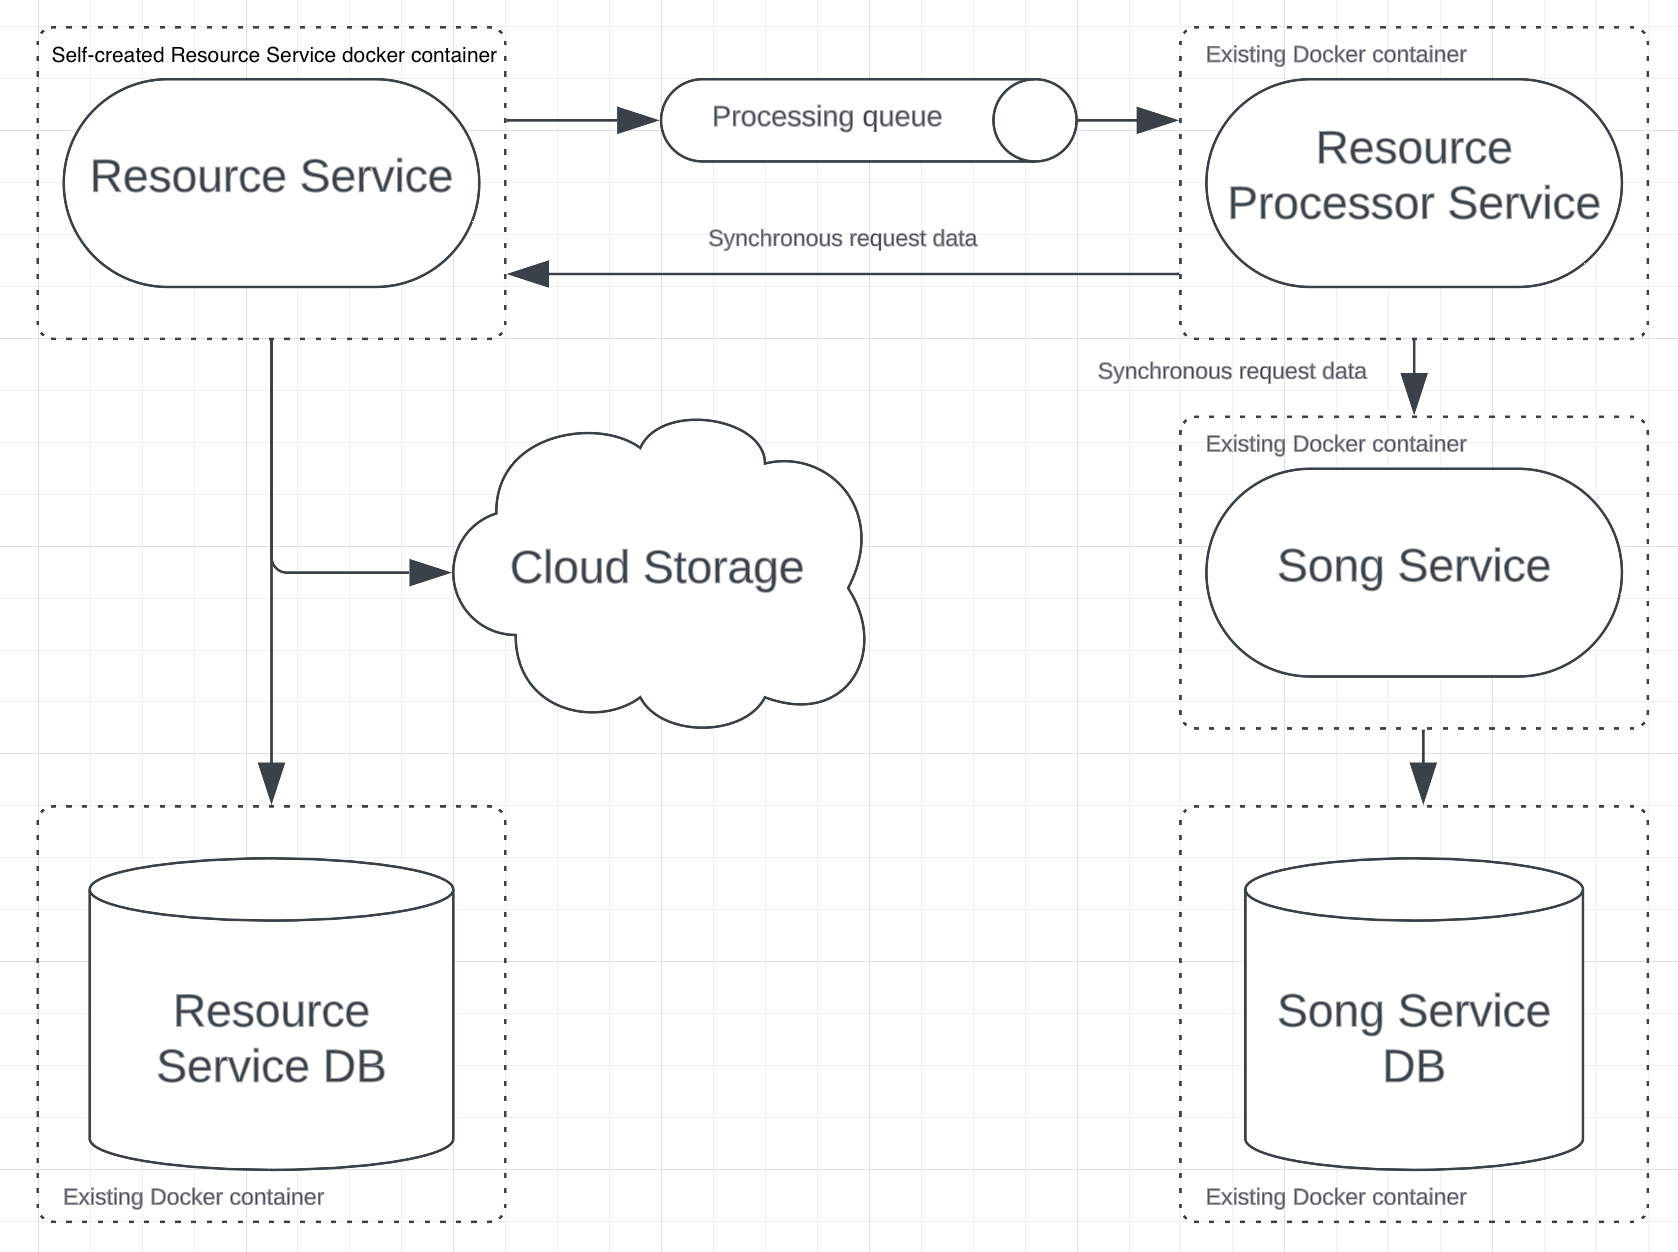
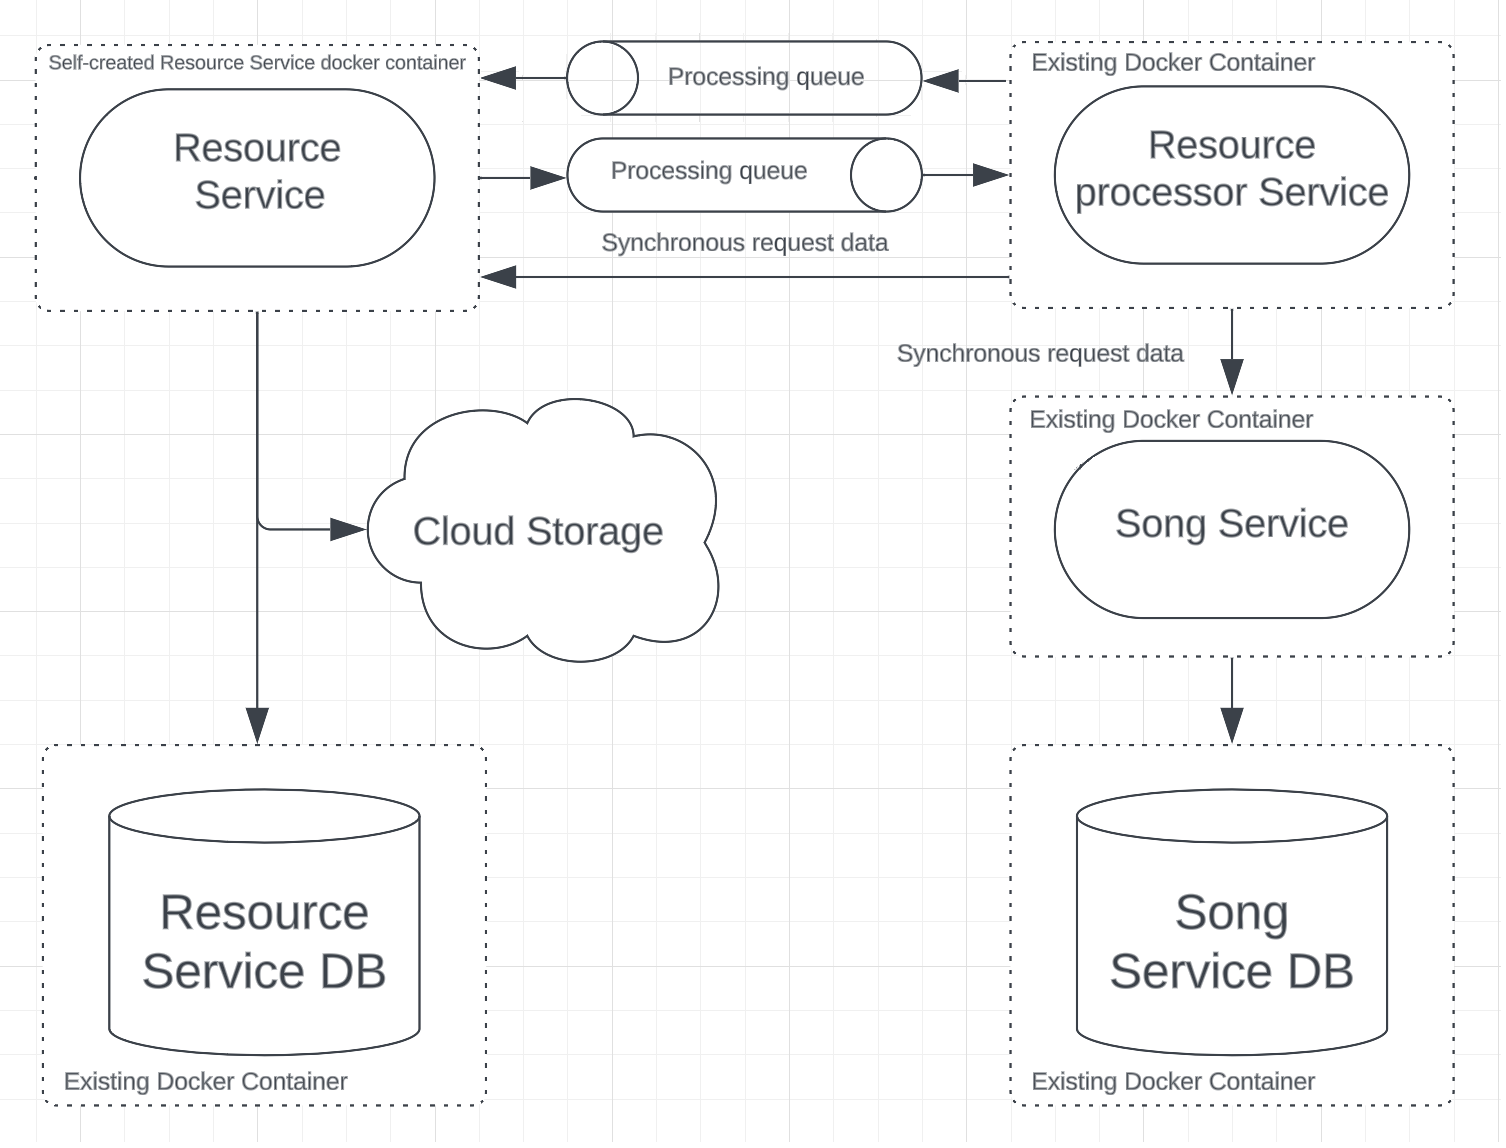
refactoring

diff --git a/microservices-cloud-native/tasks/microservices_communication/README.md b/microservices-cloud-native/tasks/microservices_communication/README.md
@@ -60,7 +60,8 @@ services:
     restart: always
     environment:
       - RABBITMQ_URL=rabbitmq
-      - RABBITMQ_QUEUE={RABBITMQ_QUEUE}
+      - RABBITMQ_RECEIVE_QUEUE={RABBITMQ_RECEIVE_QUEUE}
+      - RABBITMQ_SENT_QUEUE={RABBITMQ_SENT_QUEUE}
       - RESOURCE_MS_URL={RESOURCE_MS_URL}
       - SONG_MS_URL={SONG_MS_URL}
     depends_on:
@@ -86,21 +87,23 @@ volumes:
 ```
 
 - Replace the following placeholders to appropriate values:\
-  **SONG_MS_PORT** - local machine port on which **Song Service** will be run.\
-  **SONG_MS_DB_PORT** - local machine port on which **Song Service Postgres DB** will be run.\
-  **RESOURCE_MS_URL** - local machine url and port on which **Resource Service** will be run.\
-  **SONG_MS_URL** - local machine url and port on which **Song Service** will be run.\
-  **RESOURCE_SERVICE_MS** - the name of **Resource Service** which declared in this docker compose file.\
-  **RMQ_USER** - user name for **Rabbit MQ**.\
-  **RMQ_PASSWORD** - user password for **Rabbit MQ**.
-  **RABBITMQ_QUEUE** - queue name for communication between **Resource Service** and **Resource Processor**.
+  **SONG_MS_PORT** - local machine port on which **Song Service** will be run\
+  **SONG_MS_DB_PORT** - local machine port on which **Song Service Postgres DB** will be run\
+  **RESOURCE_MS_URL** - local machine url and port on which **Resource Service** will be run\
+  **SONG_MS_URL** - local machine url and port on which **Song Service** will be run\
+  **RESOURCE_SERVICE_MS** - the name of **Resource Service** which declared in this docker compose file\
+  **RMQ_USER** - user name for **Rabbit MQ**\
+  **RMQ_PASSWORD** - user password for **Rabbit MQ**\
+  **RABBITMQ_RECEIVE_QUEUE** - queue name to get messages from **Resource Service**\
+  **RABBITMQ_SENT_QUEUE** - queue name to send messages to **Resource Service**
 
 ## Sub-task 2: Asynchronous communication
 
 1) Remove all http calls to **Song Service** from **Resource Service** implemented in previous modules
 2) Add asynchronous communication via messaging broker between **Resource Service** and **Resource Processor**.
-3) On resource uploading, **Resource Service** should send information about uploaded resource to the **Resource
-   Processor**, which contains “resourceId”.
+   - On resource uploading, **Resource Service** should send information about uploaded resource to the **Resource
+     Processor**, which contains “resourceId”.
+   - After resource processed, **Resource Service** should receive information about resource.
 
 **Note**
 

diff --git a/microservices-cloud-native/tasks/fault_tolerance/README.md b/microservices-cloud-native/tasks/fault_tolerance/README.md
@@ -3,7 +3,7 @@
  - [What to do](#what-to-do)
  - [Sub-task 1: Storage Service](#sub-task-1-storage-service)
  - [Sub-task 2: Retry mechanism](#sub-task-2-retry-mechanism)
- - [Sub-task 2: Resilience](#sub-task-3-resilience)
+ - [Sub-task 3: Resilience](#sub-task-3-resilience)
 
 ## What to do
 
@@ -182,8 +182,8 @@ volumes:
 ```
 
 - Replace the following placeholders to appropriate values:\
-  **STORAGE_MS_PORT** - local machine port on which **Storage Service** will be run \
-  **CLOUD_STORAGE_STAGING_BUCKET_NAME** - cloud storage staging bucket name used by **Resource Service** \
+  **STORAGE_MS_PORT** - local machine port on which **Storage Service** will be run\
+  **CLOUD_STORAGE_STAGING_BUCKET_NAME** - cloud storage staging bucket name used by **Resource Service**\
   **CLOUD_STORAGE_PERMANENT_BUCKET_NAME** - cloud storage permanent bucket name used by **Resource Service**
 
 2) Update system to interact with new storage service:
